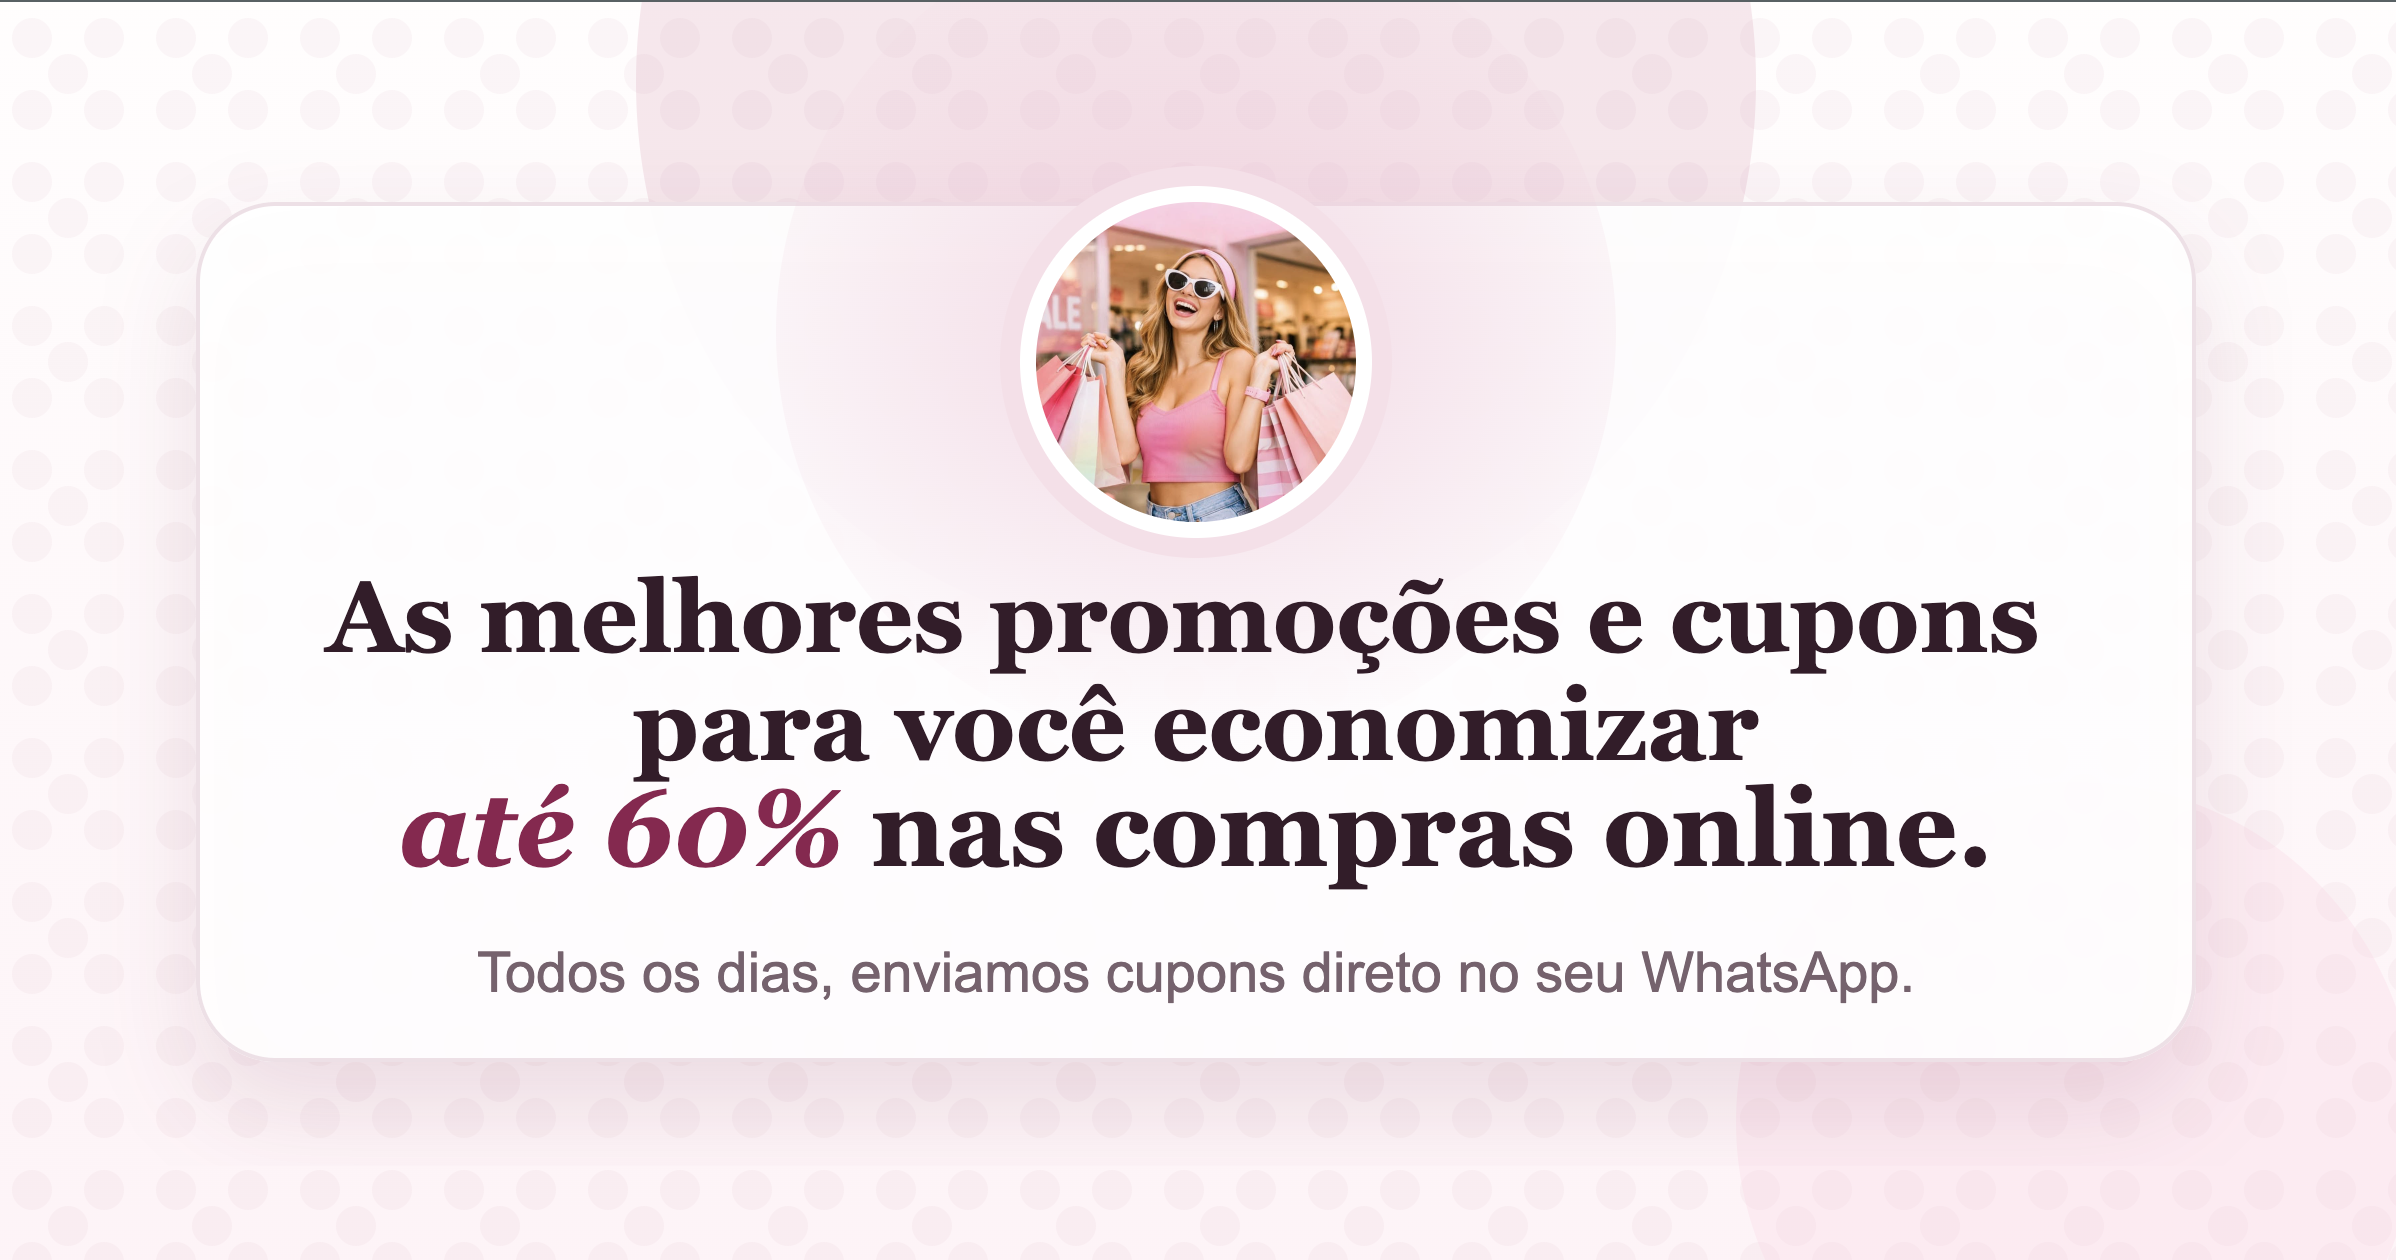
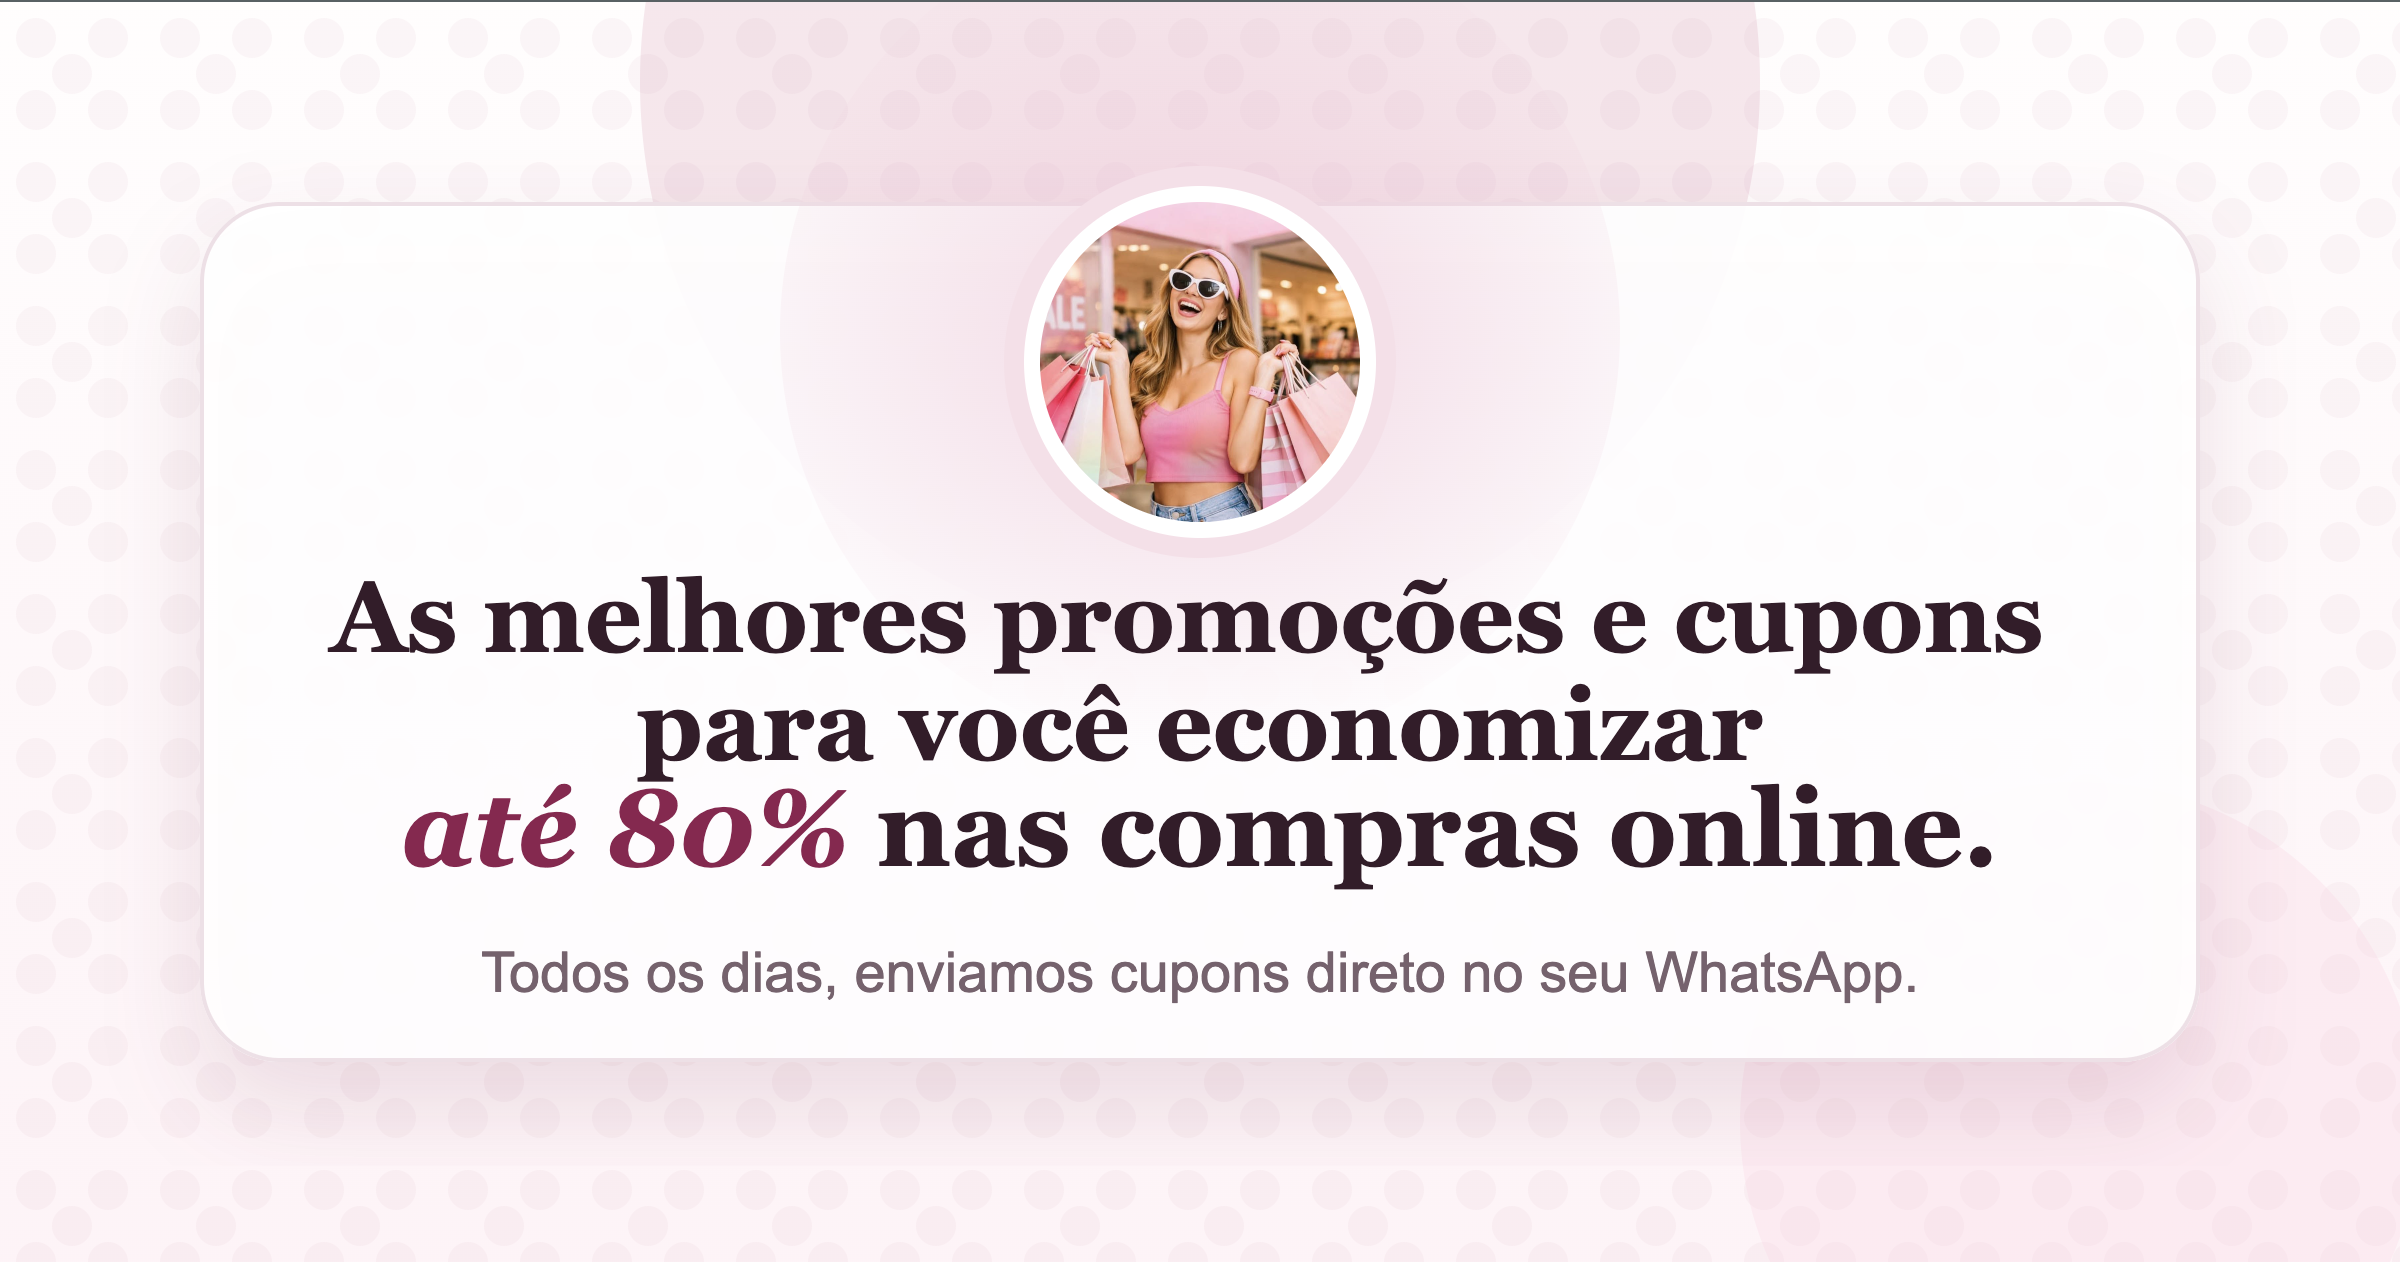
update copy

diff --git a/index.html b/index.html
@@ -26,7 +26,7 @@
     <meta name="twitter:title" content="Grupo de Promoções no WhatsApp" />
     <meta
       name="twitter:description"
-      content="As melhores promoções e cupons para você economizar até 60% nas compras online."
+      content="As melhores promoções e cupons para você economizar até 80% nas compras online."
     />
     <meta
       name="twitter:image"